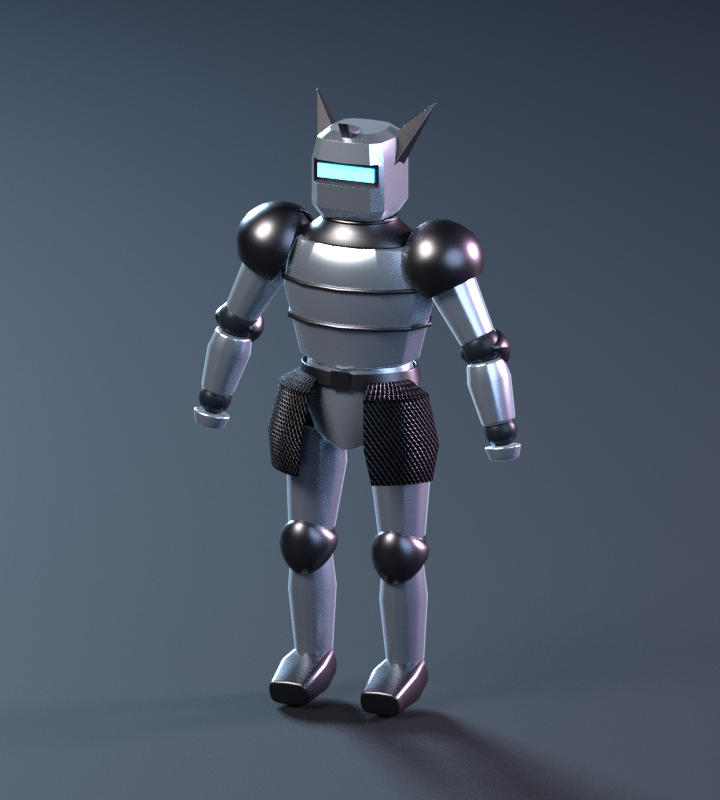
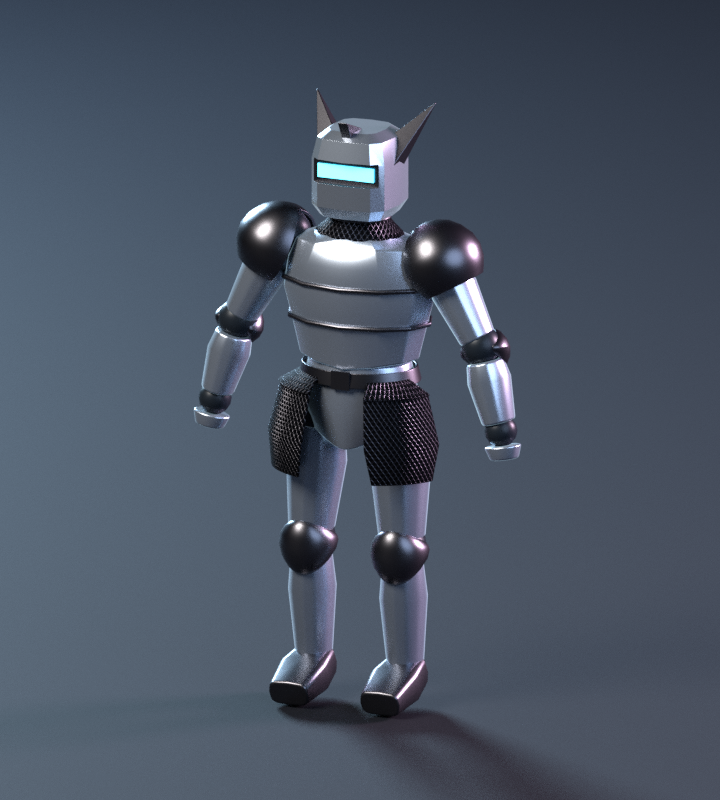
feat: chainmail gorget drawn in around the neck
Make the gorget body the shared blackened chainmail, hanging from its
dark iron top rim, and draw it in to 0.8 of its radius (GORGET_RADIUS)
so it hugs the neck and rises out of the breastplate's top. Give
shell_ring() optional arc-length UVs for the mail pattern.

Changed region(s): [[0.3972, 0.25, 0.5806, 0.3125]]

diff --git a/dev-samples/3d-stage1/rigged-armor/build.py b/dev-samples/3d-stage1/rigged-armor/build.py
@@ -377,19 +377,23 @@ def chest_seams(rig, mat, heights=(1.21, 1.33), radius=.008):
         ring_bar(rig, 'chest', f'Chest seam {k + 1}', points, radius, mat)
 
 
-# Gorget rings (z, half-width, half-depth): a low dark iron cone that sits on
+# Gorget rings (z, half-width, half-depth): a low chainmail cone that sits on
 # the breastplate's top and narrows up to the neck, ending just below the
 # helmet's lower edge. The profile is scaled by GORGET_SCALE about the top
 # ring, in height and in flare alike, so its curve keeps its shape.
-GORGET_SCALE = .6
-GORGET_RINGS = [(1.525 - (1.525 - z) * GORGET_SCALE, .115 + (w - .115) * GORGET_SCALE,
-                 .10 + (d - .10) * GORGET_SCALE)
+# GORGET_RADIUS then draws it in around the neck, as mail can hug it closely.
+GORGET_SCALE, GORGET_RADIUS = .6, .8
+GORGET_RINGS = [(1.525 - (1.525 - z) * GORGET_SCALE,
+                 (.115 + (w - .115) * GORGET_SCALE) * GORGET_RADIUS,
+                 (.10 + (d - .10) * GORGET_SCALE) * GORGET_RADIUS)
                 for z, w, d in [(1.415, .235, .148), (1.45, .205, .135), (1.48, .16, .118),
                                 (1.505, .128, .106), (1.525, .115, .10)]]
 
 
-def shell_ring(rig, bone_name, name, rings, mat, thickness=.007, count=32):
-    """Smooth band open at both ends, through (z, half-width, half-depth) rings."""
+def shell_ring(rig, bone_name, name, rings, mat, thickness=.007, count=32, uv=False):
+    """Smooth band open at both ends, through (z, half-width, half-depth) rings.
+    With `uv`, U is the arc length around (seam at the back) and V the height,
+    both in meters, as chainmail_material() expects."""
     vertices = [(width * math.sin(i * 2 * math.pi / count),
                  -depth * math.cos(i * 2 * math.pi / count), z)
                 for z, width, depth in rings for i in range(count)]
@@ -403,6 +407,19 @@ def shell_ring(rig, bone_name, name, rings, mat, thickness=.007, count=32):
     bmesh.ops.recalc_face_normals(bm, faces=bm.faces)
     bm.to_mesh(mesh)
     bm.free()
+    if uv:
+        layer = mesh.uv_layers.new(name='Mail')
+        for face in mesh.polygons:
+            # Angle from the front, in (-pi, pi]; faces across the back seam
+            # take the continuous side.
+            angles = {v: math.remainder(v % count * 2 * math.pi / count, 2 * math.pi)
+                      for v in face.vertices}
+            if max(angles.values()) - min(angles.values()) > math.pi:
+                angles = {v: a + 2 * math.pi if a < 0 else a for v, a in angles.items()}
+            for loop_index in face.loop_indices:
+                v = mesh.loops[loop_index].vertex_index
+                z, width, depth = rings[v // count]
+                layer.data[loop_index].uv = (angles[v] * (width + depth) / 2, z)
     for face in mesh.polygons:
         face.use_smooth = True
     mesh.update()
@@ -417,10 +434,10 @@ def shell_ring(rig, bone_name, name, rings, mat, thickness=.007, count=32):
     return obj
 
 
-def gorget(rig, mat, count=32):
-    """Dark iron gorget on the chest, a separate part over the breastplate,
-    with a rolled rim at its top edge."""
-    shell_ring(rig, 'chest', 'Gorget', GORGET_RINGS, mat)
+def gorget(rig, mail, mat, count=32):
+    """Chainmail gorget on the chest, a separate part over the breastplate,
+    hanging from a dark iron rolled rim at its top edge."""
+    shell_ring(rig, 'chest', 'Gorget', GORGET_RINGS, mail, uv=True)
     z, width, depth = GORGET_RINGS[-1]
     ring_bar(rig, 'chest', 'Gorget rim',
              [(width * math.sin(i * 2 * math.pi / count), -depth * math.cos(i * 2 * math.pi / count), z)
@@ -568,6 +585,7 @@ def build_armor(rig):
                        rim=(.6, .8, 1.0), rim_strength=.6)
     trim = material('Player dark iron trim', (.16, .16, .18), 1.0, .35)
     dark = material('Dark joint lining', (.025, .034, .045), .15)
+    mail = chainmail_material('Blackened chainmail')
     hip = plate(rig, 'pelvis', 'Hip armor', HIP_RINGS, steel, segments=32)
     # Brief-like hem: the front and back centers drop 6 cm to the crotch and
     # narrow between the thighs, while the sides stay at the hip joints, so
@@ -581,7 +599,7 @@ def build_armor(rig):
     hip.data.update()
     plate(rig, 'waist', 'Flexible waist lining', [(0,.135,.10),(.16,.145,.11)], dark)
     belt(rig, trim, trim)
-    diagonal_waist_plates(rig, chainmail_material('Blackened chainmail'))
+    diagonal_waist_plates(rig, mail)
     breastplate = plate(rig, 'chest', 'Breast and back plate', CHEST_RINGS, steel)
     # Extend the front center of the lower rim into a shallow V over the abdomen.
     for i in range(12):
@@ -591,7 +609,7 @@ def build_armor(rig):
         vertex.co.x *= CHEST_WIDEN
     breastplate.data.update()
     chest_seams(rig, trim)
-    gorget(rig, trim)
+    gorget(rig, mail, trim)
     joint(rig, 'neck', .075, dark)
     # A rounded box like the heroic player's helm: flat top, upright sides.
     helmet_rings = [(-.035,.1075,.1075),(.0,.13,.13),

diff --git a/dev-samples/3d-stage1/rigged-armor/README.md b/dev-samples/3d-stage1/rigged-armor/README.md
@@ -44,8 +44,9 @@ Rotation で回転させる。回転はボーンのローカル座標。
 見える部分の形を変えずに付け根を埋めている。
 胸甲は腹部まで伸ばし、正面の下端は中央が少し下がる浅いV字にしている。
 幅と厚みは心臓の高さ（z 1.30）で最大になり、肩に向かってゆるやかに細くなる。
-首には黒い鉄の首当て（`Gorget`）を付けている（`chest` に固定）。胸甲の上端に乗った低い円錐で、
-首に向かって細くなり、上端を同じ黒い鉄の丸棒で縁取っている。寸法は `GORGET_SCALE` で縮尺できる。
+首には黒い鎖帷子の首当て（`Gorget`）を付けている（`chest` に固定）。胸甲の上端から立ち上がる
+低い円錐で、首に向かって細くなり、黒い鉄の丸棒の縁から垂れる。腰の鎖帷子と同じ材質で、
+寸法は `GORGET_SCALE`（高さと広がり）と `GORGET_RADIUS`（首への締まり）で調整できる。
 首当ては胸に固定なので、`neck`・`head` で20度ほどうなずく・かしげると兜の下端が上端に当たる
 （ひねりは45度まで当たらない）。
 胸甲には heroic の主人公と同じく、黒い鉄の細い丸棒の輪を2本巻いている（`chest` に固定）。
